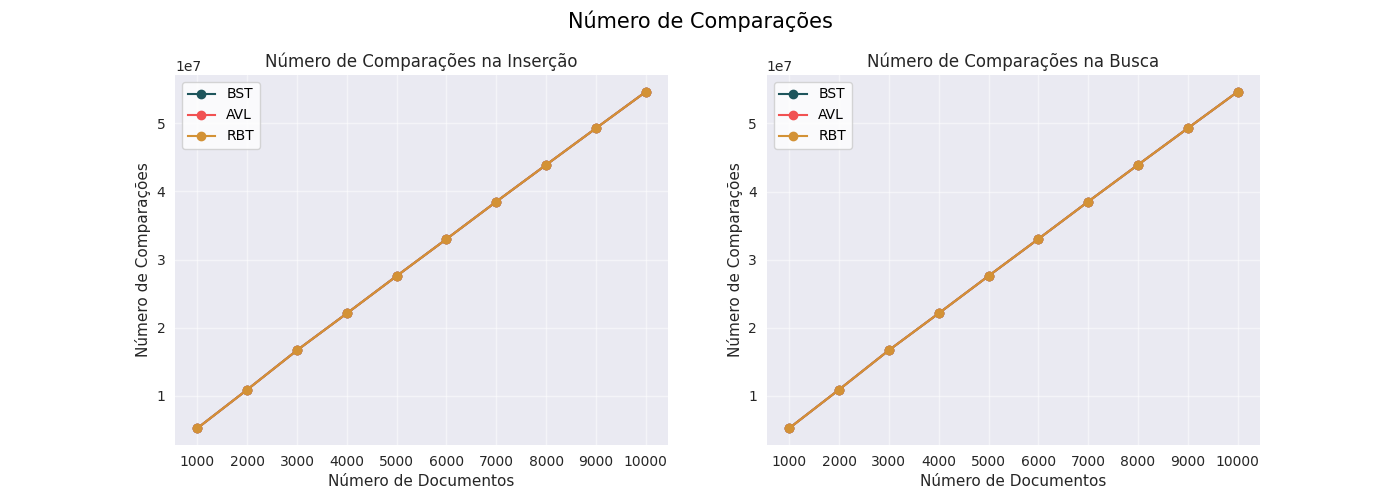
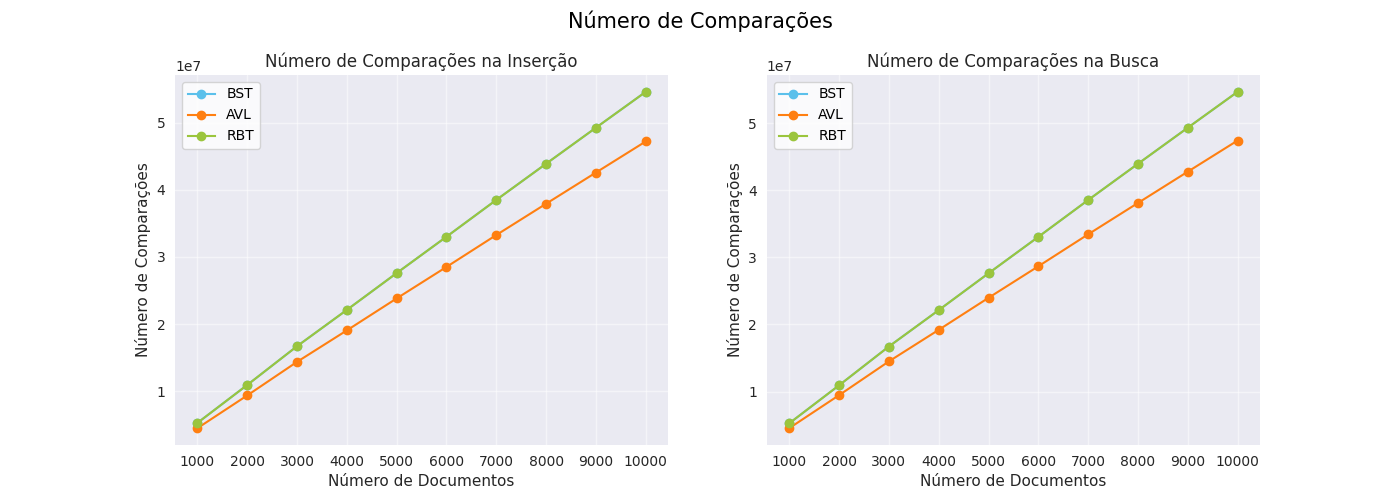
Altura e Tamanho do menor e maior galho

diff --git a/analysis/plots/plot_analysis.py b/analysis/plots/plot_analysis.py
@@ -4,7 +4,7 @@ import numpy as np
 import matplotlib.pyplot as plt
 
 bst = pd.read_csv('../results/bst_results.csv')
-avl = pd.read_csv('../results/bst_results.csv')
+avl = pd.read_csv('../results/avl_results.csv')
 rbt = pd.read_csv('../results/bst_results.csv')
 
 # Filtra os documentos de 1000 em 1000
@@ -14,14 +14,19 @@ rbt_filtered = rbt[rbt['Documentos'] % 1000 == 0]
 
 x = np.array(bst_filtered['Documentos'])
 
+# Cores
+bst = '#5BC0EB'
+avl = '#FF7F11'
+rbt = '#9BC53D'
+
 #####  Tempo de inserção  #####
 plt.style.use('seaborn-v0_8')
 fig, (ax0, ax1) = plt.subplots(1, 2, figsize=(14, 5))
 plt.style.use('default')
 #####  Total  #####
-ax0.plot(x, bst_filtered['TempoTotalInsercao'], marker='o', label='BST', color="#1E555C")
-ax0.plot(x, avl_filtered['TempoTotalInsercao'], marker='o', label='AVL', color="#F15152")
-ax0.plot(x, rbt_filtered['TempoTotalInsercao'], marker='o', label='RBT', color="#D39236")
+ax0.plot(x, bst_filtered['TempoTotalInsercao'], marker='o', label='BST', color=bst)
+ax0.plot(x, avl_filtered['TempoTotalInsercao'], marker='o', label='AVL', color=avl)
+ax0.plot(x, rbt_filtered['TempoTotalInsercao'], marker='o', label='RBT', color=rbt)
 ax0.set_title('Tempo Total de Inserção')
 ax0.set_xlabel('Número de Documentos')
 ax0.set_ylabel('Tempo Total de Inserção (s)')
@@ -29,9 +34,9 @@ ax0.set_xticks(x)
 ax0.legend()
 ax0.grid(alpha=0.5)
 #####  Médio  #####
-ax1.plot(x, bst_filtered['TempoMedioInsercao'], marker='o' , label='BST', color="#1E555C")
-ax1.plot(x, avl_filtered['TempoMedioInsercao'], marker='o' , label='AVL', color="#F15152")
-ax1.plot(x, rbt_filtered['TempoMedioInsercao'], marker='o' , label='RBT', color="#D39236")
+ax1.plot(x, bst_filtered['TempoMedioInsercao'], marker='o' , label='BST', color=bst)
+ax1.plot(x, avl_filtered['TempoMedioInsercao'], marker='o' , label='AVL', color=avl)
+ax1.plot(x, rbt_filtered['TempoMedioInsercao'], marker='o' , label='RBT', color=rbt)
 ax1.set_title('Tempo Médio de Inserção por Palavra')
 ax1.set_xlabel('Número de Documentos')
 ax1.set_ylabel('Tempo Médio de Inserção (s)')
@@ -42,7 +47,6 @@ ax1.grid(alpha=0.5)
 plt.subplots_adjust(top=0.85)
 fig.suptitle('Tempo de Inserção', fontsize=15)
 plt.savefig('tempo_insercao.png')
-plt.show()
 
 
 #####  Tempo de busca  #####
@@ -50,9 +54,9 @@ plt.style.use('seaborn-v0_8')
 fig, (ax0, ax1) = plt.subplots(1, 2, figsize=(14, 5))
 plt.style.use('default')
 #####  Total  #####
-ax0.plot(x, bst_filtered['TempoTotalBusca'], marker='o', label='BST', color="#1E555C")
-ax0.plot(x, avl_filtered['TempoTotalBusca'], marker='o', label='AVL', color="#F15152")
-ax0.plot(x, rbt_filtered['TempoTotalBusca'], marker='o', label='RBT', color="#D39236")
+ax0.plot(x, bst_filtered['TempoTotalBusca'], marker='o', label='BST', color=bst)
+ax0.plot(x, avl_filtered['TempoTotalBusca'], marker='o', label='AVL', color=avl)
+ax0.plot(x, rbt_filtered['TempoTotalBusca'], marker='o', label='RBT', color=rbt)
 ax0.set_title('Tempo Total de Busca')
 ax0.set_xlabel('Número de Documentos')
 ax0.set_ylabel('Tempo Total de Busca (s)')
@@ -60,9 +64,9 @@ ax0.set_xticks(x)
 ax0.legend()
 ax0.grid(alpha=0.5)
 #####  Médio  #####
-ax1.plot(x, bst_filtered['TempoMedioBusca'], marker='o' , label='BST', color="#1E555C")
-ax1.plot(x, avl_filtered['TempoMedioBusca'], marker='o' , label='AVL', color="#F15152")
-ax1.plot(x, rbt_filtered['TempoMedioBusca'], marker='o' , label='RBT', color="#D39236")
+ax1.plot(x, bst_filtered['TempoMedioBusca'], marker='o' , label='BST', color=bst)
+ax1.plot(x, avl_filtered['TempoMedioBusca'], marker='o' , label='AVL', color=avl)
+ax1.plot(x, rbt_filtered['TempoMedioBusca'], marker='o' , label='RBT', color=rbt)
 ax1.set_title('Tempo Médio de Busca por Palavras')
 ax1.set_xlabel('Número de Documentos')
 ax1.set_ylabel('Tempo Médio de Busca (s)')
@@ -73,7 +77,6 @@ ax1.grid(alpha=0.5)
 plt.subplots_adjust(top=0.85)
 fig.suptitle('Tempo de Busca', fontsize=15)
 plt.savefig('tempo_busca.png')
-plt.show()
 
 
 #####  Número de Comparações  #####
@@ -81,9 +84,9 @@ plt.style.use('seaborn-v0_8')
 fig, (ax0, ax1) = plt.subplots(1, 2, figsize=(14, 5))
 plt.style.use('default')
 #####  Total  #####
-ax0.plot(x, bst_filtered['ComparacoesInsercao'], marker='o', label='BST', color="#1E555C")
-ax0.plot(x, avl_filtered['ComparacoesInsercao'], marker='o', label='AVL', color="#F15152")
-ax0.plot(x, rbt_filtered['ComparacoesInsercao'], marker='o', label='RBT', color="#D39236")
+ax0.plot(x, bst_filtered['ComparacoesInsercao'], marker='o', label='BST', color=bst)
+ax0.plot(x, avl_filtered['ComparacoesInsercao'], marker='o', label='AVL', color=avl)
+ax0.plot(x, rbt_filtered['ComparacoesInsercao'], marker='o', label='RBT', color=rbt)
 ax0.set_title('Número de Comparações na Inserção')
 ax0.set_xlabel('Número de Documentos')
 ax0.set_ylabel('Número de Comparações')
@@ -91,9 +94,9 @@ ax0.set_xticks(x)
 ax0.legend()
 ax0.grid(alpha=0.5)
 #####  Médio  #####
-ax1.plot(x, bst_filtered['ComparacoesBusca'], marker='o' , label='BST', color="#1E555C")
-ax1.plot(x, avl_filtered['ComparacoesBusca'], marker='o' , label='AVL', color="#F15152")
-ax1.plot(x, rbt_filtered['ComparacoesBusca'], marker='o' , label='RBT', color="#D39236")
+ax1.plot(x, bst_filtered['ComparacoesBusca'], marker='o' , label='BST', color=bst)
+ax1.plot(x, avl_filtered['ComparacoesBusca'], marker='o' , label='AVL', color=avl)
+ax1.plot(x, rbt_filtered['ComparacoesBusca'], marker='o' , label='RBT', color=rbt)
 ax1.set_title('Número de Comparações na Busca')
 ax1.set_xlabel('Número de Documentos')
 ax1.set_ylabel('Número de Comparações')
@@ -104,7 +107,48 @@ ax1.grid(alpha=0.5)
 plt.subplots_adjust(top=0.85)
 fig.suptitle('Número de Comparações', fontsize=15)
 plt.savefig('num_comparacoes.png')
+
+
+#####  Altura  #####
+plt.style.use('seaborn-v0_8')
+plt.figure(figsize=(10, 5))
+plt.bar(x-250, bst_filtered['Altura'], width=250, label='BST', color=bst)
+plt.bar(x    , avl_filtered['Altura'], width=250, label='AVL', color=avl)
+plt.bar(x+250, rbt_filtered['Altura'], width=250, label='RBT', color=rbt)
+plt.xlabel('Número de Documentos')
+plt.ylabel('Altura')
+plt.xticks(x)
+plt.style.use('default')
+plt.legend(loc='upper center', bbox_to_anchor=(0.5, -0.20), ncol=3)
+plt.grid(False)
+
+plt.tight_layout()
+plt.subplots_adjust(top=0.88)
+plt.title('Altura das Árvores\n', fontsize=15)
+plt.savefig('altura.png')
+
+
+#####  Tamanho dos galhos  #####
+plt.style.use('seaborn-v0_8')
+plt.figure(figsize=(10, 5))
+plt.bar(x-250, bst_filtered['MaiorGalho'], width=250, label='BST - maior galho', color="#D5F0FC", edgecolor=bst, hatch='//', linewidth=0.8)
+plt.bar(x-250, bst_filtered['MenorGalho'], width=250, label='BST - menor galho', color=bst, edgecolor='#148EC2')
+plt.bar(x    , avl_filtered['MaiorGalho'], width=250, label='AVL - maior galho', color="#FCE1CA", edgecolor=avl, hatch='//', linewidth=0.8)
+plt.bar(x    , avl_filtered['MenorGalho'], width=250, label='AVL - menor galho', color=avl, edgecolor="#C75F03")
+plt.bar(x+250, rbt_filtered['MaiorGalho'], width=250, label='RBT - maior galho', color="#E3E9D8", edgecolor=rbt, hatch='//', linewidth=0.8)
+plt.bar(x+250, rbt_filtered['MenorGalho'], width=250, label='RBT - menor galho', color=rbt, edgecolor="#6D9616")
+plt.xlabel('Número de Documentos')
+plt.ylabel('Tamanho do Galho')
+plt.xticks(x)
+plt.style.use('default')
+plt.legend(loc='upper center', bbox_to_anchor=(0.5, -0.20), ncol=3)
+plt.grid(False)
+
+plt.tight_layout()
+plt.subplots_adjust(top=0.88)
+plt.title('Tamanho do Maior e do Menor Galho\n', fontsize=15)
+plt.savefig('tamanho_galho.png')
+
+
 plt.show()
-
-
 
